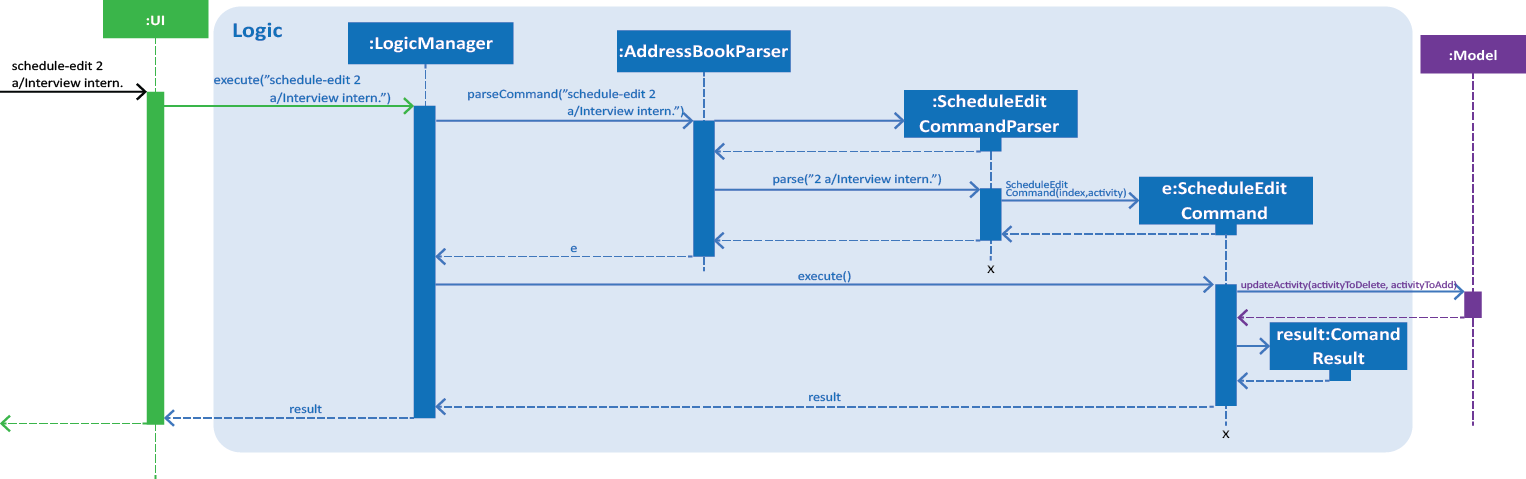
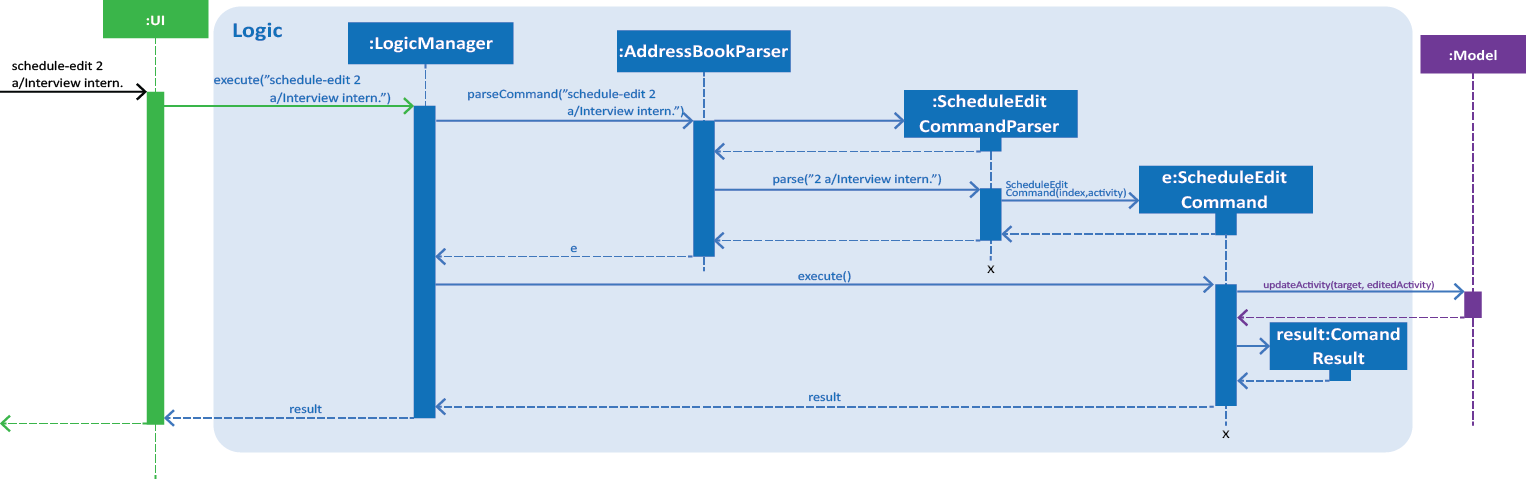
updated DG

Changed region(s): [[0.7392, 0.3215, 0.8624, 0.4676], [0.8008, 0.5846, 0.9548, 0.6138]]

diff --git a/src/main/java/seedu/address/model/schedule/Schedule.java b/src/main/java/seedu/address/model/schedule/Schedule.java
@@ -81,13 +81,13 @@ public class Schedule {
 
     /**
      * updates an activity from the schedule.
-     * @param toDelete A valid activity in the schedule
-     * @param toAdd A valid activity that falls on the same date as the activity to be edited
+     * @param target A valid activity in the schedule
+     * @param editedActivity A valid activity that falls on the same date as the activity to be edited
      */
-    public void update(Activity toDelete, Activity toAdd) {
-        requireNonNull(toAdd);
-        requireNonNull(toDelete);
-        Collections.replaceAll(schedule.get(toDelete.getDate()), toDelete, toAdd);
+    public void update(Activity target, Activity editedActivity) {
+        requireNonNull(editedActivity);
+        requireNonNull(target);
+        Collections.replaceAll(schedule.get(target.getDate()), target, editedActivity);
     }
 
     /**
